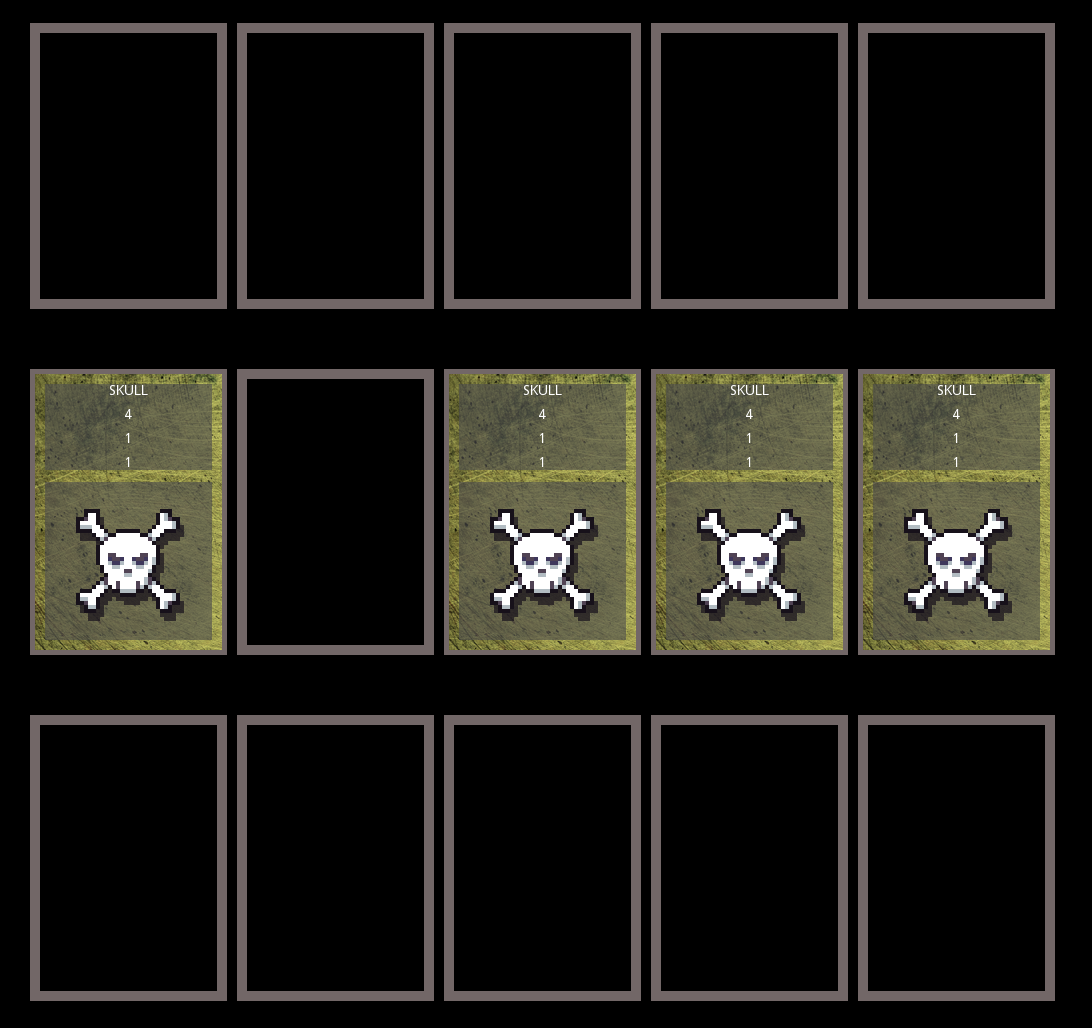
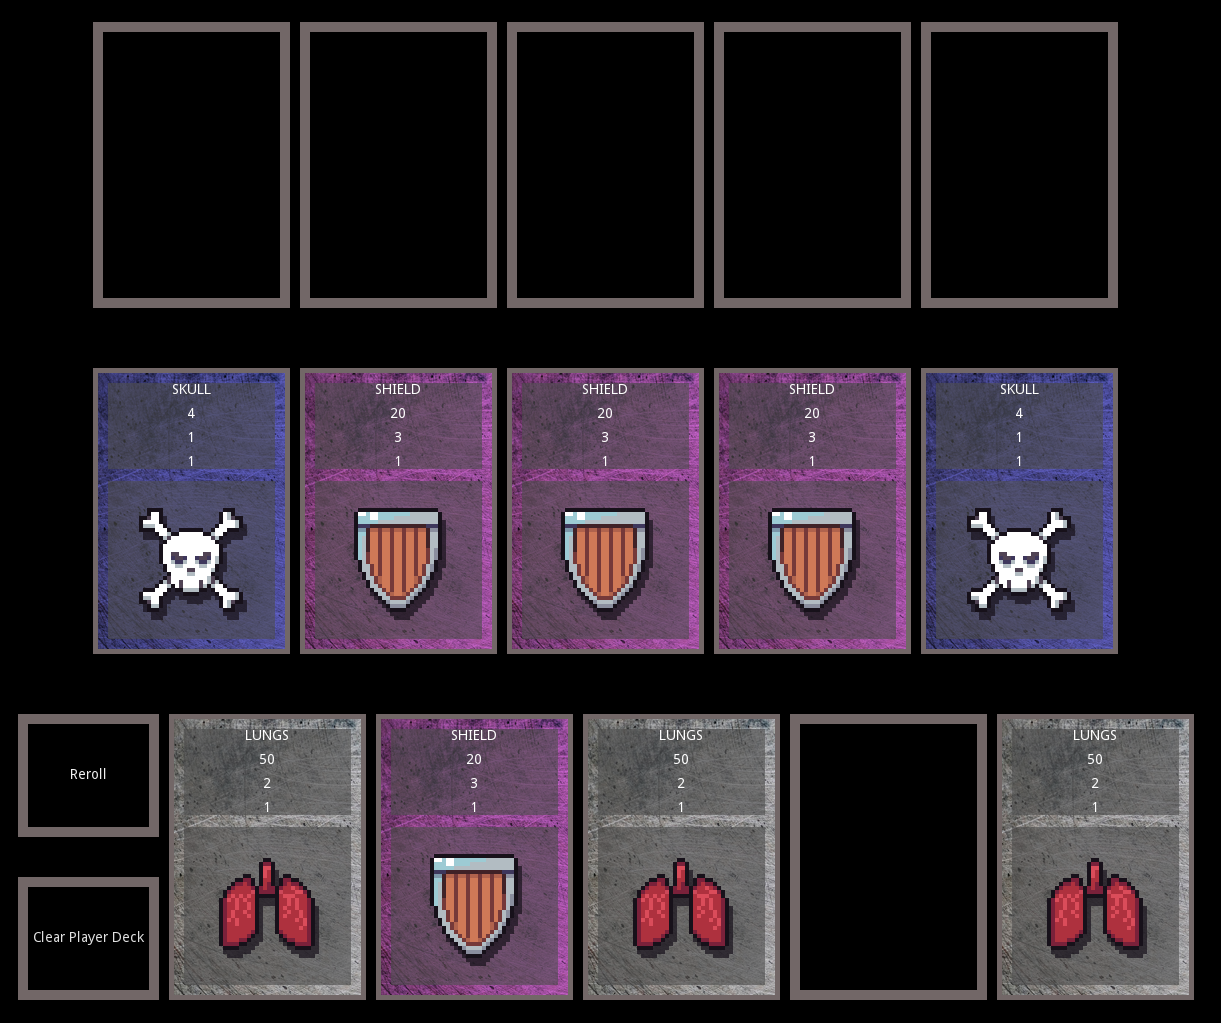
update readme

diff --git a/readme.md b/readme.md
@@ -4,4 +4,6 @@
 
 Combine the skulls to create a mega skull.
 
+The shields have taken over.
+
 ![skull](skull.png)
